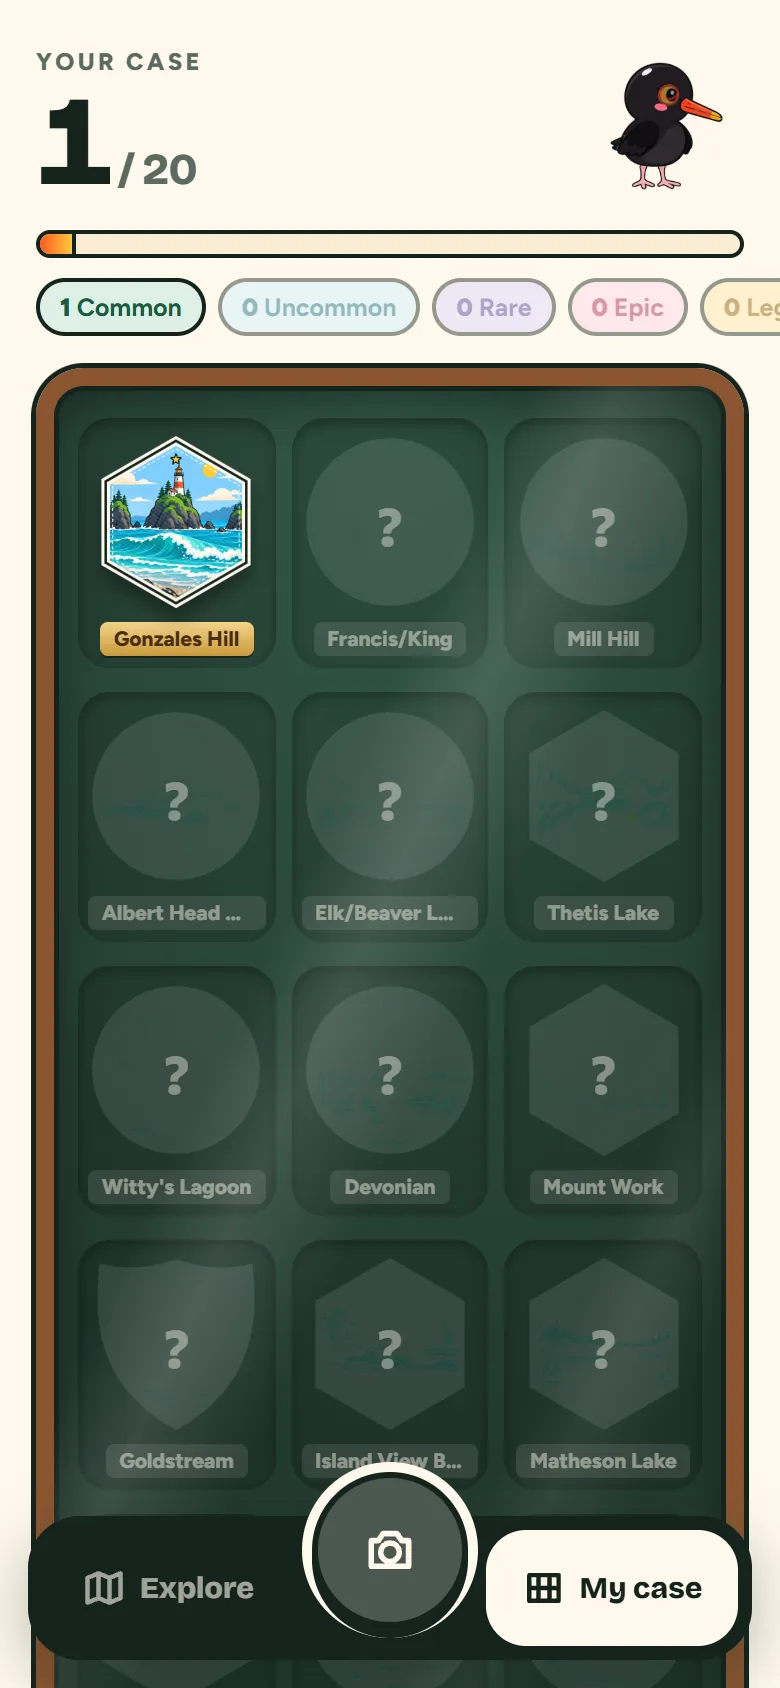
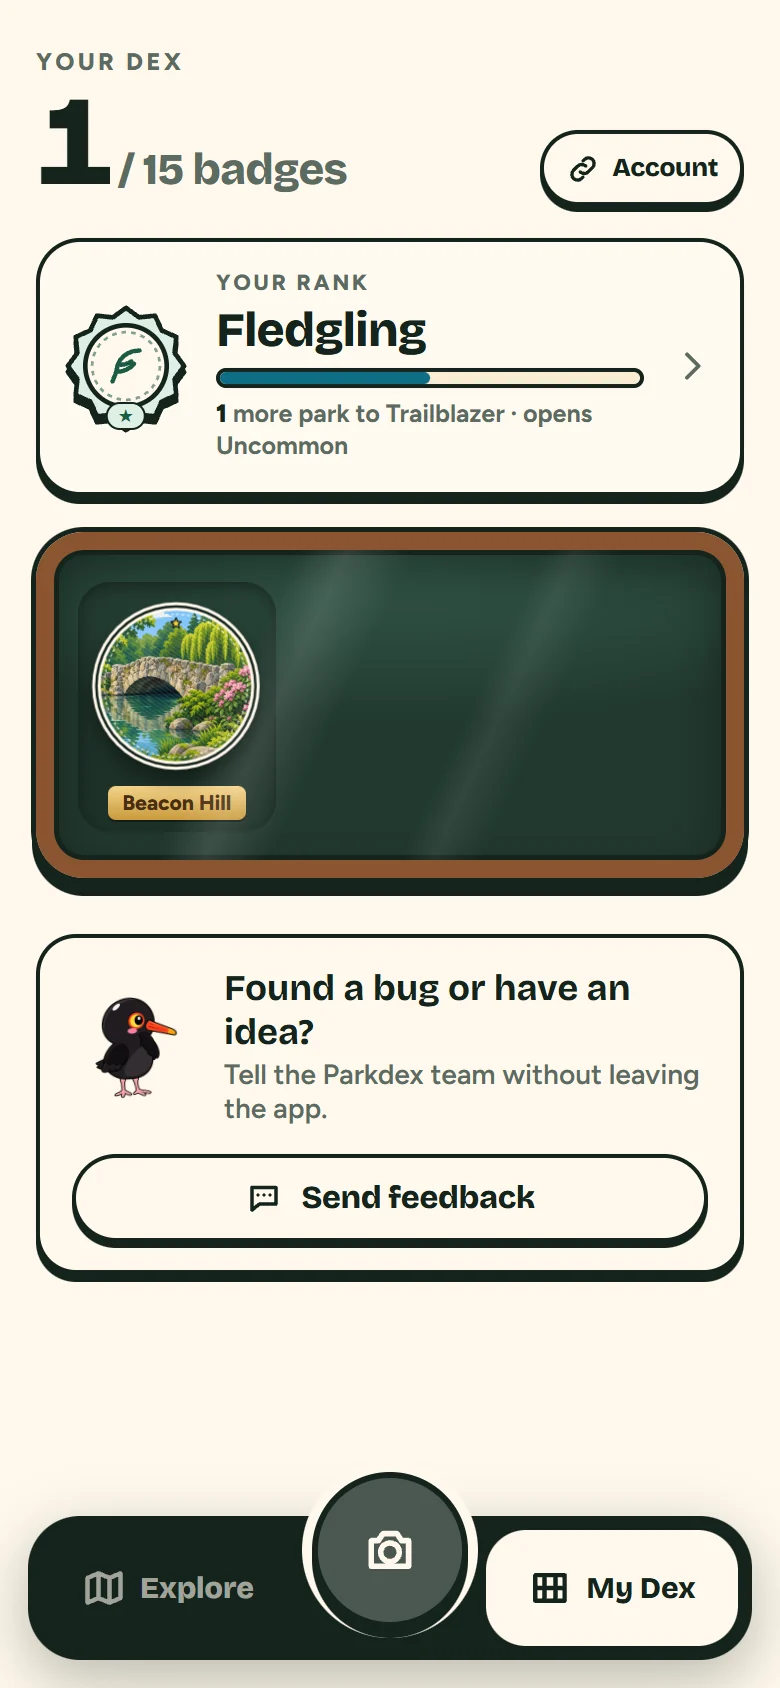
Refresh landing phone screens from the current field app
Recapture the seven field-*.webp screens from Kip staging: map, park
sheet, map after a claim, arrival, badge claimed, My Dex with ranks,
and the share card. Image descriptions and the collection copy now
match the Dex and its 15 demo badges, and the provenance note records
the capture source.

Refs #34

diff --git a/index.html b/index.html
@@ -91,7 +91,7 @@
             <figure class="outdoor-device outdoor-device--hero">
               <div class="outdoor-device-trigger">
                 <span class="device-frame device-frame--iphone-16-max device-frame--parkdex-asset">
-                  <span class="device-frame__screen"><span class="device-frame__media"><img src="/images/field-map.webp" width="780" height="1688" fetchpriority="high" alt="Parkdex map of Victoria with a Gonzales Hill badge pin, a 0 of 20 badges counter and nearby badges" /></span></span>
+                  <span class="device-frame__screen"><span class="device-frame__media"><img src="/images/field-map.webp" width="780" height="1688" fetchpriority="high" alt="Parkdex map of Victoria with park badge pins, a 0 of 15 counter at the Fledgling rank, and a Badges near you row" /></span></span>
                   <span class="device-frame__hardware" aria-hidden="true"><img src="/frames/parkdex-phone-frame.webp" width="1252" height="2604" alt="" /></span>
                 </span>
               </div>
@@ -107,8 +107,8 @@
             <p>Tap a pin to see the badge you’ll earn and how long the drive takes. The map works offline, so no signal is needed.</p>
           </div>
           <div class="outdoor-phone-gallery" role="group" aria-label="Parkdex map screens">
-            <figure class="outdoor-device"><div class="outdoor-device-trigger"><span class="device-frame device-frame--iphone-16-max device-frame--parkdex-asset"><span class="device-frame__screen"><span class="device-frame__media"><img src="/images/field-nearby.webp" width="780" height="1688" loading="lazy" alt="Parkdex map with a Badges near you row listing nearby parks and drive times" /></span></span><span class="device-frame__hardware" aria-hidden="true"><img src="/frames/parkdex-phone-frame.webp" width="1252" height="2604" alt="" /></span></span></div></figure>
-            <figure class="outdoor-device"><div class="outdoor-device-trigger"><span class="device-frame device-frame--iphone-16-max device-frame--parkdex-asset"><span class="device-frame__screen"><span class="device-frame__media"><img src="/images/field-park-sheet.webp" width="780" height="1688" loading="lazy" alt="Parkdex park sheet for Gonzales Hill Regional Park showing its badge, 5 km road distance, 12 minute drive and a Let’s go button" /></span></span><span class="device-frame__hardware" aria-hidden="true"><img src="/frames/parkdex-phone-frame.webp" width="1252" height="2604" alt="" /></span></span></div></figure>
+            <figure class="outdoor-device"><div class="outdoor-device-trigger"><span class="device-frame device-frame--iphone-16-max device-frame--parkdex-asset"><span class="device-frame__screen"><span class="device-frame__media"><img src="/images/field-nearby.webp" width="780" height="1688" loading="lazy" alt="Parkdex map after claiming Beacon Hill, with a checked pin, a 1 of 15 counter and a Badges near you row listing drive times" /></span></span><span class="device-frame__hardware" aria-hidden="true"><img src="/frames/parkdex-phone-frame.webp" width="1252" height="2604" alt="" /></span></span></div></figure>
+            <figure class="outdoor-device"><div class="outdoor-device-trigger"><span class="device-frame device-frame--iphone-16-max device-frame--parkdex-asset"><span class="device-frame__screen"><span class="device-frame__media"><img src="/images/field-park-sheet.webp" width="780" height="1688" loading="lazy" alt="Parkdex park sheet for Beacon Hill Park showing its common badge, 2.3 km road distance, 7 minute drive and a Let’s go button" /></span></span><span class="device-frame__hardware" aria-hidden="true"><img src="/frames/parkdex-phone-frame.webp" width="1252" height="2604" alt="" /></span></span></div></figure>
           </div>
           <div id="category-preview" class="outdoor-category-preview" role="tooltip" hidden>
             <img id="category-preview-image" src="/images/pacific-rim.webp" alt="" width="960" height="640" />
@@ -123,20 +123,20 @@
             <p>Your visits and photos stay on your phone.</p>
           </div>
           <div class="outdoor-phone-gallery" role="group" aria-label="Parkdex check-in screens">
-            <figure class="outdoor-device"><div class="outdoor-device-trigger"><span class="device-frame device-frame--iphone-16-max device-frame--parkdex-asset"><span class="device-frame__screen"><span class="device-frame__media"><img src="/images/field-arrival.webp" width="780" height="1688" loading="lazy" alt="Parkdex arrival screen inside the Gonzales Hill boundary with Kip saying KLEEP, you made it, and a Check in and snap button" /></span></span><span class="device-frame__hardware" aria-hidden="true"><img src="/frames/parkdex-phone-frame.webp" width="1252" height="2604" alt="" /></span></span></div></figure>
-            <figure class="outdoor-device"><div class="outdoor-device-trigger"><span class="device-frame device-frame--iphone-16-max device-frame--parkdex-asset"><span class="device-frame__screen"><span class="device-frame__media"><img src="/images/field-claimed.webp" width="780" height="1688" loading="lazy" alt="Parkdex badge claimed screen for Gonzales Hill, badge 1 of 20, with a Share it button" /></span></span><span class="device-frame__hardware" aria-hidden="true"><img src="/frames/parkdex-phone-frame.webp" width="1252" height="2604" alt="" /></span></span></div></figure>
+            <figure class="outdoor-device"><div class="outdoor-device-trigger"><span class="device-frame device-frame--iphone-16-max device-frame--parkdex-asset"><span class="device-frame__screen"><span class="device-frame__media"><img src="/images/field-arrival.webp" width="780" height="1688" loading="lazy" alt="Parkdex arrival screen inside the Beacon Hill boundary with Kip saying KLEEP, you made it, and a Check in and snap button" /></span></span><span class="device-frame__hardware" aria-hidden="true"><img src="/frames/parkdex-phone-frame.webp" width="1252" height="2604" alt="" /></span></span></div></figure>
+            <figure class="outdoor-device"><div class="outdoor-device-trigger"><span class="device-frame device-frame--iphone-16-max device-frame--parkdex-asset"><span class="device-frame__screen"><span class="device-frame__media"><img src="/images/field-claimed.webp" width="780" height="1688" loading="lazy" alt="Parkdex badge claimed screen for Beacon Hill, badge 1 of 15, with Kip and a Share it button" /></span></span><span class="device-frame__hardware" aria-hidden="true"><img src="/frames/parkdex-phone-frame.webp" width="1252" height="2604" alt="" /></span></span></div></figure>
           </div>
         </section>
 
         <section class="outdoor-section outdoor-section--collection" aria-labelledby="collection-title">
           <div class="outdoor-section-copy">
             <h2 id="collection-title">Connect with the land.</h2>
-            <p>Fill your case with 20 badges, from common to legendary, and share each one to your story.</p>
+            <p>Fill your Dex with badges, from common to legendary, and share each one to your story.</p>
             <p>There's always somewhere new to explore.</p>
           </div>
           <div class="outdoor-phone-gallery" role="group" aria-label="Parkdex collection screens">
-            <figure class="outdoor-device"><div class="outdoor-device-trigger"><span class="device-frame device-frame--iphone-16-max device-frame--parkdex-asset"><span class="device-frame__screen"><span class="device-frame__media"><img src="/images/field-case.webp" width="780" height="1688" loading="lazy" alt="Parkdex case showing 1 of 20 badges collected with rarity filters" /></span></span><span class="device-frame__hardware" aria-hidden="true"><img src="/frames/parkdex-phone-frame.webp" width="1252" height="2604" alt="" /></span></span></div></figure>
-            <figure class="outdoor-device"><div class="outdoor-device-trigger"><span class="device-frame device-frame--iphone-16-max device-frame--parkdex-asset"><span class="device-frame__screen"><span class="device-frame__media"><img src="/images/field-share.webp" width="780" height="1688" loading="lazy" alt="Parkdex share card for a collected Gonzales Hill badge with Share to story and Save image buttons" /></span></span><span class="device-frame__hardware" aria-hidden="true"><img src="/frames/parkdex-phone-frame.webp" width="1252" height="2604" alt="" /></span></span></div></figure>
+            <figure class="outdoor-device"><div class="outdoor-device-trigger"><span class="device-frame device-frame--iphone-16-max device-frame--parkdex-asset"><span class="device-frame__screen"><span class="device-frame__media"><img src="/images/field-case.webp" width="780" height="1688" loading="lazy" alt="Parkdex Dex showing 1 of 15 badges collected and Fledgling rank progress toward Trailblazer" /></span></span><span class="device-frame__hardware" aria-hidden="true"><img src="/frames/parkdex-phone-frame.webp" width="1252" height="2604" alt="" /></span></span></div></figure>
+            <figure class="outdoor-device"><div class="outdoor-device-trigger"><span class="device-frame device-frame--iphone-16-max device-frame--parkdex-asset"><span class="device-frame__screen"><span class="device-frame__media"><img src="/images/field-share.webp" width="780" height="1688" loading="lazy" alt="Parkdex share card for a collected Beacon Hill badge with Share to story and Save image buttons" /></span></span><span class="device-frame__hardware" aria-hidden="true"><img src="/frames/parkdex-phone-frame.webp" width="1252" height="2604" alt="" /></span></span></div></figure>
           </div>
           <div class="outdoor-cta outdoor-collection-cta">
                 <div class="outdoor-cta-row">

diff --git a/public/images/PHOTO-CREDIT.md b/public/images/PHOTO-CREDIT.md
@@ -14,12 +14,12 @@ The Goldstream photo within both screenshots is by Mike: [Flow, Goldstream Provi
 
 ## Field app screenshots and Kip
 
-The `field-*.webp` phone screens are unedited 780×1688 captures from the Parkdex field app (`parkdex-badge-mockup/shots/`, commit `5a28645`, September 26, 2026), converted to WebP. The photos inside the claim, case and share screens are the app's illustrated demonstration images, not user visits. Map © Protomaps and OpenStreetMap contributors.
+The `field-*.webp` phone screens are unedited 780×1688 captures of the Parkdex field app at `https://parkdex-kip-staging.vercel.app` (Kip `staging` at `425c47b`, content release `5f0d1370`), taken September 28, 2026 in headless Chrome at 390×844 with device scale 2, signed out, using the demo spot in Victoria. Each map frame was taken after the detailed island map finished downloading. They are converted to WebP. The photos inside the claim and share screens are the app's illustrated demonstration images, not user visits. Map © Protomaps and OpenStreetMap contributors.
 
-- `field-map.webp` (06-map): hero phone.
-- `field-park-sheet.webp` (07-park-sheet) and `field-nearby.webp` (17-find-next-park): map story.
-- `field-arrival.webp` (10-arrival) and `field-claimed.webp` (16-claimed): visit story.
-- `field-case.webp` (18-case) and `field-share.webp` (22-share): collection story.
+- `field-map.webp` (map): hero phone.
+- `field-park-sheet.webp` (park sheet) and `field-nearby.webp` (map after the claim): map story.
+- `field-arrival.webp` (arrival) and `field-claimed.webp` (badge claimed): visit story.
+- `field-case.webp` (My Dex) and `field-share.webp` (share card): collection story.
 
 `kip/kip-wave.webp`, `kip/kip-cheer.webp` and `kip/kip-idle.webp` are copies of the field app's Kip the oystercatcher art (`parkdex-badge-mockup/public/art/kip/`).
 
